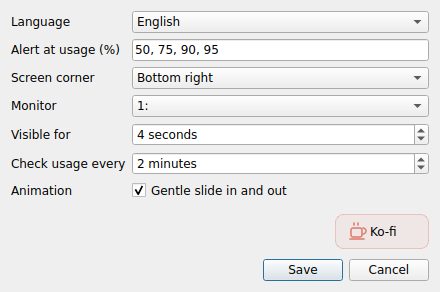
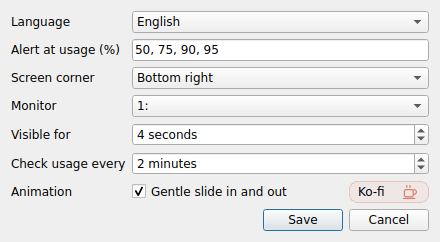
v0.2.7: compact Ko-fi button on the animation row

diff --git a/quiet_quota.py b/quiet_quota.py
@@ -13,7 +13,7 @@ from PySide6.QtCore import Qt, QPoint, QSize, QTimer, QPropertyAnimation, QEasin
 from PySide6.QtGui import QColor, QIcon, QPainter, QPixmap, QFont, QFontMetrics, QPen, QDesktopServices
 from PySide6.QtWidgets import (QApplication, QWidget, QSystemTrayIcon, QMenu,
     QDialog, QFormLayout, QLineEdit, QComboBox, QSpinBox, QCheckBox,
-    QDialogButtonBox, QMessageBox, QToolButton, QVBoxLayout)
+    QDialogButtonBox, QMessageBox, QToolButton, QHBoxLayout)
 from quota_core import DEFAULTS, validate_config, atomic_json, ThresholdPolicy, Poller
 from i18n import LANGUAGES, CATALOGS, tr
 
@@ -247,24 +247,23 @@ class Settings(QDialog):
         self.layout.addRow(" ", self.interval)
         self.motion = QCheckBox()
         self.motion.setChecked(cfg["animations"])
-        self.layout.addRow(" ", self.motion)
         self.buttons = QDialogButtonBox(QDialogButtonBox.StandardButton.Save | QDialogButtonBox.StandardButton.Cancel)
         self.buttons.accepted.connect(self.save)
         self.buttons.rejected.connect(self.reject)
         self.support = QToolButton()
         self.support.setText("Ko-fi")
         self.support.setIcon(coffee_icon())
-        self.support.setIconSize(QSize(20, 20))
+        self.support.setIconSize(QSize(16, 16))
         self.support.setToolButtonStyle(Qt.ToolButtonStyle.ToolButtonTextBesideIcon)
+        self.support.setLayoutDirection(Qt.LayoutDirection.RightToLeft)
         self.support.setCursor(Qt.CursorShape.PointingHandCursor)
-        self.support.setMinimumWidth(94)
         self.support.setStyleSheet("""
             QToolButton {
                 color: palette(button-text);
                 background-color: rgba(223, 128, 111, 18);
                 border: 1px solid rgba(223, 128, 111, 95);
                 border-radius: 8px;
-                padding: 5px 10px;
+                padding: 2px 8px;
                 font-weight: 500;
             }
             QToolButton:hover { background-color: rgba(223, 128, 111, 38); }
@@ -272,13 +271,15 @@ class Settings(QDialog):
             QToolButton:focus { border: 1px solid #df806f; }
         """)
         self.support.clicked.connect(lambda: QDesktopServices.openUrl(QUrl(KOFI_URL)))
-        footer = QWidget()
-        footer_layout = QVBoxLayout(footer)
-        footer_layout.setContentsMargins(0, 8, 0, 0)
-        footer_layout.setSpacing(10)
-        footer_layout.addWidget(self.support, 0, Qt.AlignmentFlag.AlignRight)
-        footer_layout.addWidget(self.buttons)
-        self.layout.addRow(footer)
+        self.motion_row = QWidget()
+        motion_layout = QHBoxLayout(self.motion_row)
+        motion_layout.setContentsMargins(0, 0, 0, 0)
+        motion_layout.setSpacing(8)
+        motion_layout.addWidget(self.motion)
+        motion_layout.addStretch()
+        motion_layout.addWidget(self.support)
+        self.layout.addRow(" ", self.motion_row)
+        self.layout.addRow(self.buttons)
         self.language.currentIndexChanged.connect(self.retranslate)
         self.corner.currentIndexChanged.connect(self.preview)
         self.monitor.currentIndexChanged.connect(self.preview)
@@ -299,7 +300,7 @@ class Settings(QDialog):
         for widget, key in ((self.language, "language"), (self.thresholds, "thresholds"),
                             (self.corner, "corner"), (self.monitor, "monitor"),
                             (self.duration, "visible_for"), (self.interval, "poll_every"),
-                            (self.motion, "animation")):
+                            (self.motion_row, "animation")):
             self.layout.labelForField(widget).setText(tr(lang, key))
         for i in range(self.corner.count()):
             self.corner.setItemText(i, tr(lang, self.corner.itemData(i)))
@@ -311,6 +312,8 @@ class Settings(QDialog):
         for standard, key in ((QDialogButtonBox.StandardButton.Save, "save"),
                               (QDialogButtonBox.StandardButton.Cancel, "cancel")):
             self.buttons.button(standard).setText(tr(lang, key))
+        button_size = self.buttons.button(QDialogButtonBox.StandardButton.Cancel).sizeHint()
+        self.support.setFixedSize(button_size)
         self.adjustSize()
         self.preview()
 

diff --git a/i18n.py b/i18n.py
@@ -22,7 +22,7 @@ seconds|seconds|Sekunden|segundos|secondes|segundos|secondi|秒|秒
 minutes|minutes|Minuten|minutos|minutes|minutos|minuti|分|分钟
 poll_every|Check usage every|Verbrauch abfragen alle|Consultar consumo cada|Vérifier l’utilisation toutes les|Consultar uso a cada|Controlla il consumo ogni|使用率の確認間隔|用量检查间隔
 animation|Animation|Animation|Animación|Animation|Animação|Animazione|アニメーション|动画
-slide|Gentle slide in and out|Sanft ein- und ausgleiten|Deslizamiento suave|Glissement doux|Deslizamento suave|Scorrimento delicato|滑らかに出入りする|柔和滑入滑出
+slide|Gentle slide in and out|Sanftes Gleiten|Deslizamiento suave|Glissement doux|Deslizamento suave|Scorrimento delicato|滑らかに出入りする|柔和滑入滑出
 save|Save|Speichern|Guardar|Enregistrer|Salvar|Salva|保存|保存
 cancel|Cancel|Abbrechen|Cancelar|Annuler|Cancelar|Annulla|キャンセル|取消
 ok|OK|OK|Aceptar|OK|OK|OK|OK|确定

diff --git a/quota_core.py b/quota_core.py
@@ -151,7 +151,7 @@ class CodexReader:
                 messages.put(None)
         threading.Thread(target=drain, daemon=True).start()
         self.rpc("initialize", {"clientInfo": {"name": "quiet_quota",
-                 "title": "Quiet Quota", "version": "0.2.6"}})
+                 "title": "Quiet Quota", "version": "0.2.7"}})
         self.send({"method": "initialized", "params": {}})
 
     def send(self, message):

diff --git a/README.md b/README.md
@@ -8,7 +8,7 @@ no model inference. English by default, with eight interface languages.
 
 ![Quiet Quota demo popup showing example usage](docs/popup-en.png)
 
-**v0.2.6 beta · Windows · Python 3.10+ · MIT · Independent community project**
+**v0.2.7 beta · Windows · Python 3.10+ · MIT · Independent community project**
 
 Not affiliated with or endorsed by OpenAI, ChatGPT or Codex. This monitors the
 general Work/Codex quota exposed by Codex; it does not claim to track every

diff --git a/CHANGELOG.md b/CHANGELOG.md
@@ -1,5 +1,11 @@
 # Changelog
 
+## 0.2.7 beta
+
+- Place the compact Ko-fi button at the right of the Animation row.
+- Show the coffee icon after the text and remove the extra support row.
+- Match the support button to the native Save/Cancel button size in each language.
+
 ## 0.2.6 beta
 
 - Restyle the Settings Ko-fi button with a coffee-cup icon and subtle rounded border.
